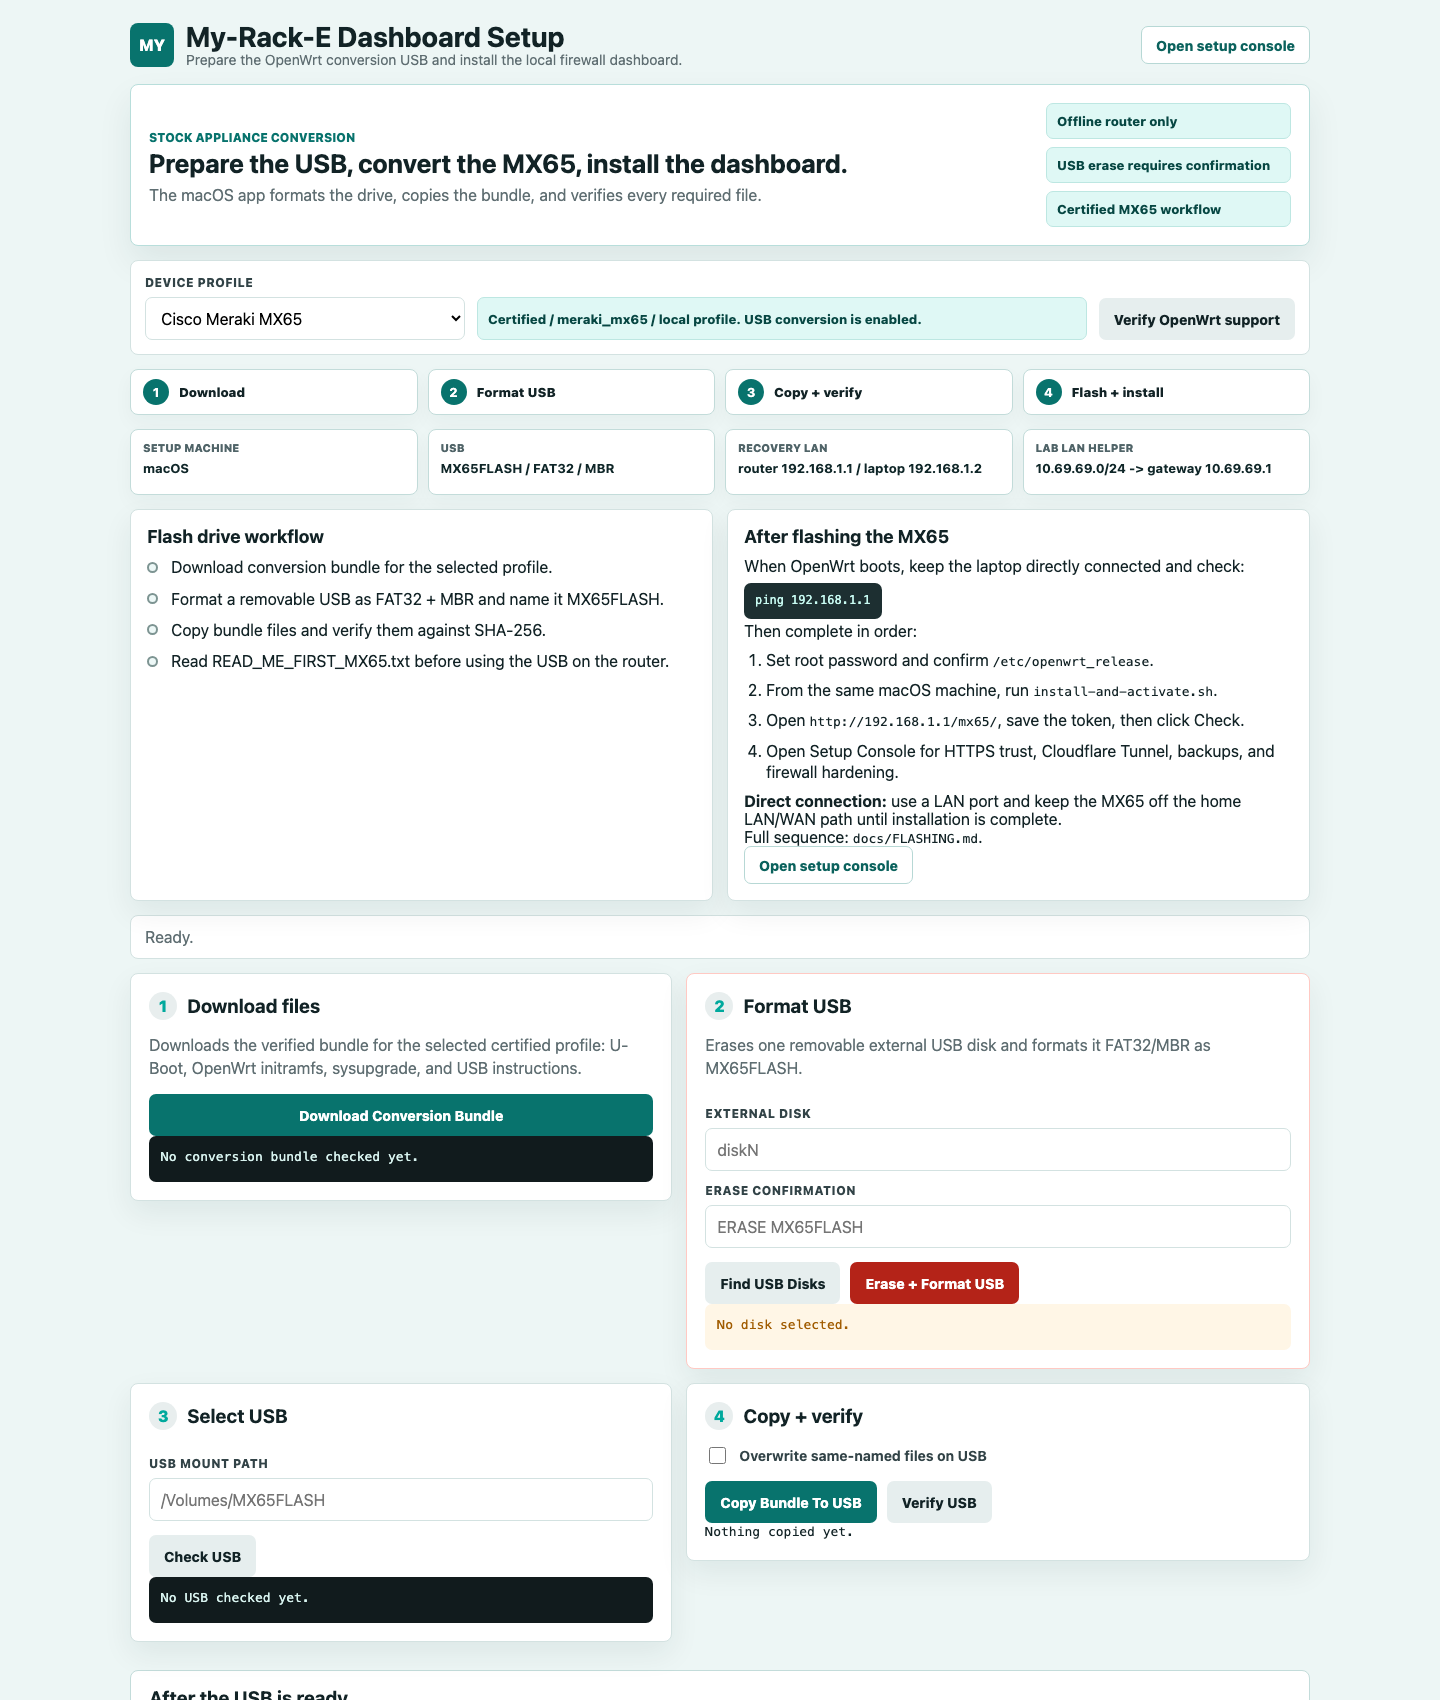
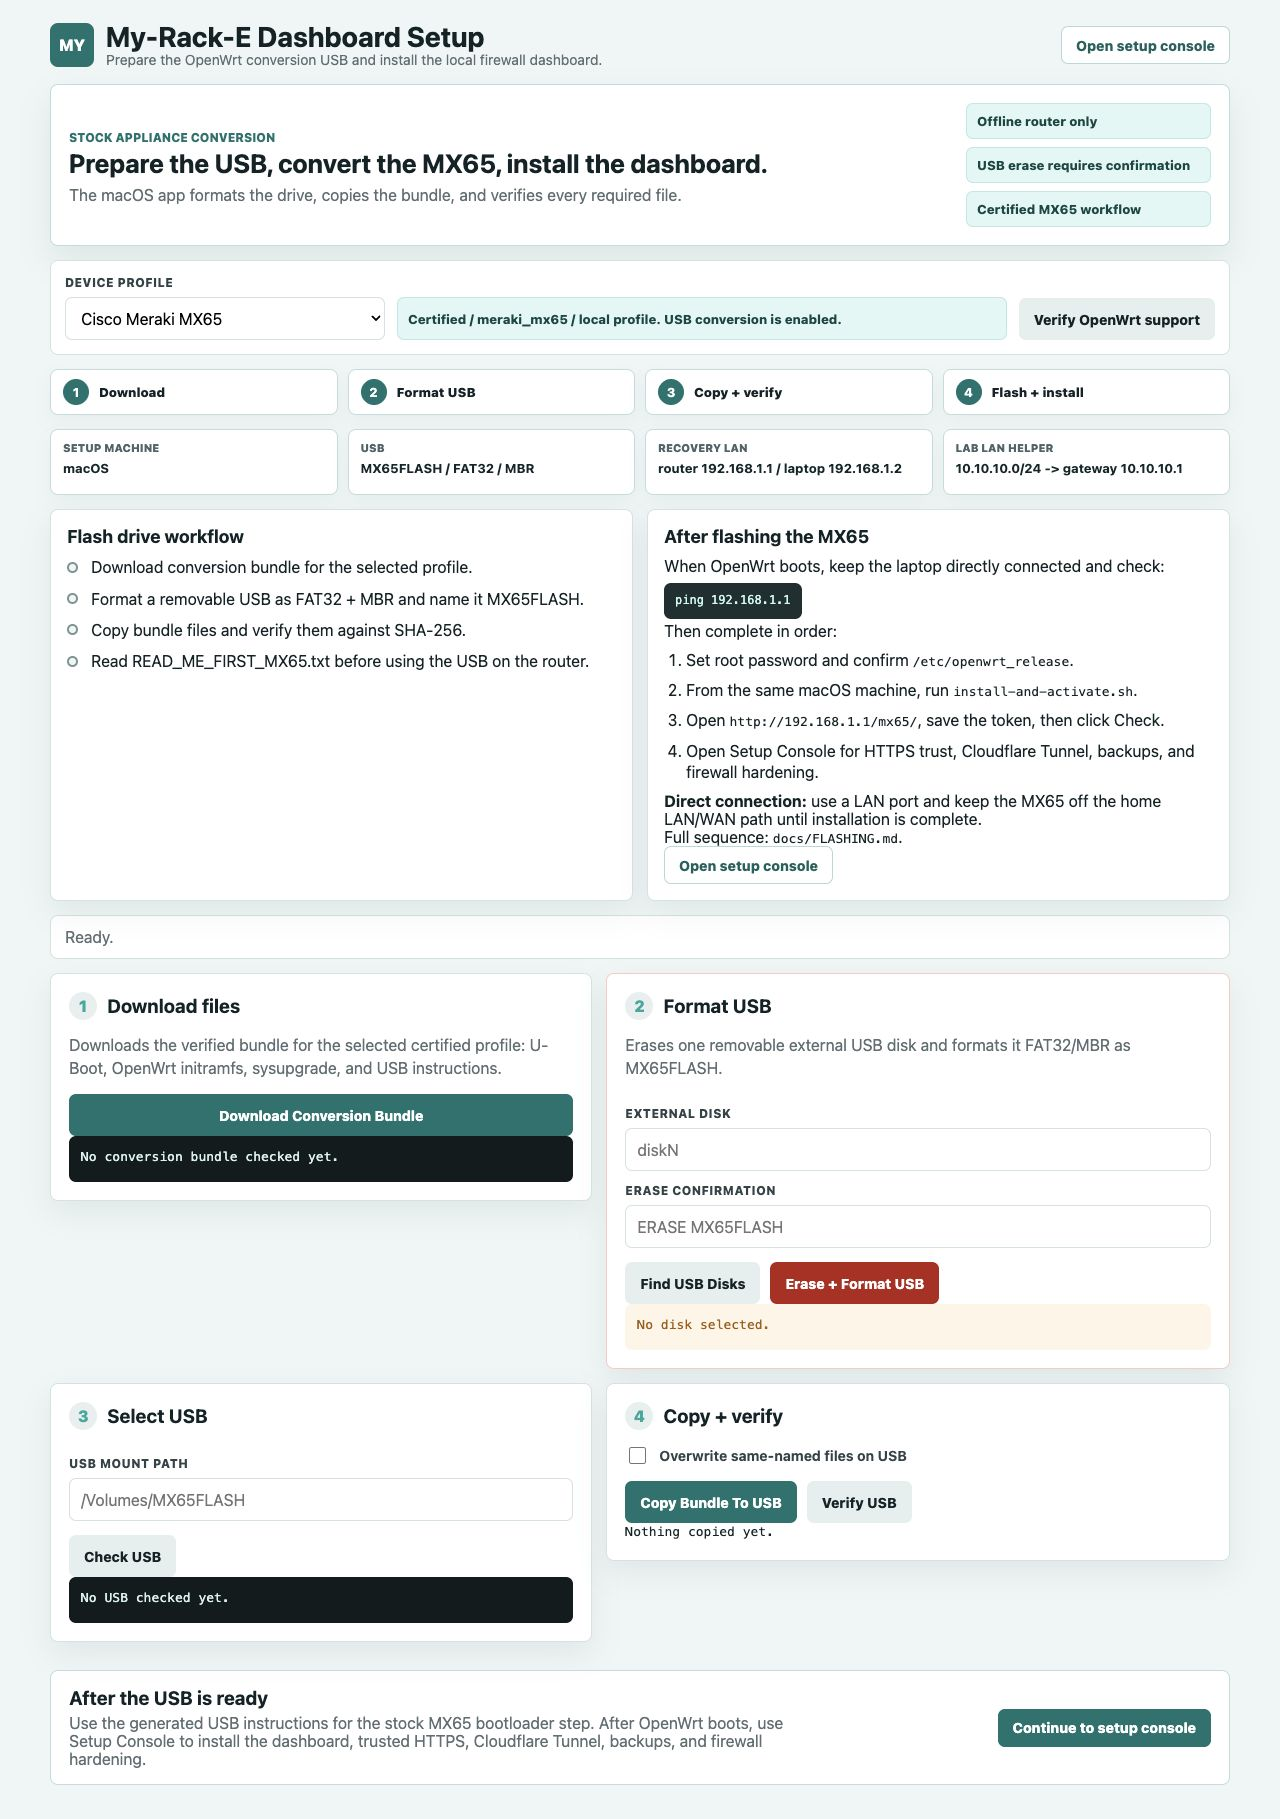
Prepare repository for public release
Refresh public-facing docs and setup screenshots, replace informal lab defaults with neutral examples, and add a release hygiene scan to the readiness checks so personal paths, stale placeholders, and unprofessional text are caught before publication.

Changed region(s): [[0.0312, 0.0, 0.9688, 1.0], [0.9062, 0.5924, 0.9375, 0.7171]]

diff --git a/router-manager/www/mx65/index.html b/router-manager/www/mx65/index.html
@@ -274,7 +274,7 @@
                   <input id="outboundRuleIdInput" type="hidden" />
                   <label><span>Policy</span><select id="outboundPolicyInput"><option value="deny">Deny</option><option value="allow">Allow</option></select></label>
                   <label><span>Protocol</span><select id="outboundProtocolInput"><option value="any">Any</option><option value="tcp">TCP</option><option value="udp">UDP</option><option value="icmp">ICMP</option></select></label>
-                  <label><span>Source</span><input id="outboundSourceInput" placeholder="Any or 10.69.69.0/24" /></label>
+                  <label><span>Source</span><input id="outboundSourceInput" placeholder="Any or 10.10.10.0/24" /></label>
                   <label><span>Destination</span><input id="outboundDestinationInput" placeholder="Any or 1.1.1.1/32" /></label>
                   <label><span>Destination port</span><input id="outboundDestPortInput" placeholder="Any, 443, or 8000-8090" /></label>
                   <label><span>Comment</span><input id="outboundCommentInput" placeholder="Block direct admin access" /></label>
@@ -315,7 +315,7 @@
               <label><span>Uplink</span><select id="forwardUplinkInput"><option value="both">Both Internet uplinks</option></select></label>
               <label><span>Protocol</span><select id="forwardProtocolInput"><option value="tcp">TCP</option><option value="udp">UDP</option><option value="tcpudp">TCP and UDP</option></select></label>
               <label><span>Public port</span><input id="forwardPublicPortInput" inputmode="numeric" placeholder="443" /></label>
-              <label><span>LAN host IP</span><input id="forwardLanIpInput" inputmode="decimal" placeholder="10.69.69.10" /></label>
+              <label><span>LAN host IP</span><input id="forwardLanIpInput" inputmode="decimal" placeholder="10.10.10.10" /></label>
               <label><span>Local port</span><input id="forwardLocalPortInput" inputmode="numeric" placeholder="443" /></label>
               <label><span>Allowed remote IPs</span><input id="forwardAllowedIpsInput" placeholder="Any or 203.0.113.10/32" /></label>
               <label><span>Status</span><select id="forwardEnabledInput"><option value="1">Enabled</option><option value="0">Disabled</option></select></label>
@@ -365,12 +365,12 @@
               <div class="surface-head">
                 <div>
                   <h2>Primary LAN</h2>
-                  <p class="note">Enter a subnet like 10.69.69.0/24 or a gateway like 10.69.69.1. My-Rack-E uses the first usable address as the gateway, reserves space for fixed infrastructure, and builds a client DHCP range from the subnet.</p>
+                  <p class="note">Enter a subnet like 10.10.10.0/24 or a gateway like 10.10.10.1. My-Rack-E uses the first usable address as the gateway, reserves space for fixed infrastructure, and builds a client DHCP range from the subnet.</p>
                 </div>
                 <button id="saveLanBtn" class="primary">Save LAN</button>
               </div>
               <div class="config-form">
-                <label><span>Subnet or gateway</span><input id="lanIpInput" inputmode="decimal" placeholder="10.69.69.0/24 or 10.69.69.1" /></label>
+                <label><span>Subnet or gateway</span><input id="lanIpInput" inputmode="decimal" placeholder="10.10.10.0/24 or 10.10.10.1" /></label>
                 <label><span>Subnet mask</span>
                   <select id="lanMaskInput">
                     <option value="255.255.255.0">255.255.255.0 /24</option>
@@ -380,7 +380,7 @@
                     <option value="255.255.255.192">255.255.255.192 /26</option>
                   </select>
                 </label>
-                <label><span>DHCP first client</span><input id="lanDhcpStartInput" inputmode="decimal" placeholder="10.69.69.50" /></label>
+                <label><span>DHCP first client</span><input id="lanDhcpStartInput" inputmode="decimal" placeholder="10.10.10.50" /></label>
                 <label><span>DHCP size</span><input id="lanDhcpLimitInput" inputmode="numeric" placeholder="150" /></label>
                 <label><span>Lease time</span><input id="lanLeaseInput" placeholder="12h" /></label>
               </div>
@@ -413,7 +413,7 @@
               <div class="config-form">
                 <label><span>VLAN ID</span><input id="vlanIdInput" inputmode="numeric" placeholder="69" /></label>
                 <label><span>Name</span><input id="vlanNameInput" placeholder="Lab" /></label>
-                <label><span>Subnet or gateway</span><input id="vlanIpInput" inputmode="decimal" placeholder="10.69.69.0/24 or 10.69.69.1" /></label>
+                <label><span>Subnet or gateway</span><input id="vlanIpInput" inputmode="decimal" placeholder="10.10.10.0/24 or 10.10.10.1" /></label>
                 <label><span>Subnet mask</span>
                   <select id="vlanMaskInput">
                     <option value="255.255.255.0">255.255.255.0 /24</option>
@@ -423,7 +423,7 @@
                     <option value="255.255.255.192">255.255.255.192 /26</option>
                   </select>
                 </label>
-                <label><span>DHCP first client</span><input id="vlanDhcpStartInput" inputmode="decimal" placeholder="10.69.69.50" /></label>
+                <label><span>DHCP first client</span><input id="vlanDhcpStartInput" inputmode="decimal" placeholder="10.10.10.50" /></label>
                 <label><span>DHCP size</span><input id="vlanDhcpLimitInput" inputmode="numeric" placeholder="150" /></label>
                 <label><span>Lease time</span><input id="vlanLeaseInput" placeholder="12h" /></label>
               </div>
@@ -456,7 +456,7 @@
                 <input id="routeIdInput" type="hidden" />
                 <label><span>Name</span><input id="routeNameInput" placeholder="Downstream lab" /></label>
                 <label><span>Subnet</span><input id="routeSubnetInput" placeholder="10.99.0.0/24" /></label>
-                <label><span>Next hop IP</span><input id="routeGatewayInput" inputmode="decimal" placeholder="10.69.69.2" /></label>
+                <label><span>Next hop IP</span><input id="routeGatewayInput" inputmode="decimal" placeholder="10.10.10.2" /></label>
                 <label><span>Interface</span><select id="routeInterfaceInput"><option value="lan">Primary LAN</option></select></label>
                 <label><span>Status</span><select id="routeEnabledInput"><option value="1">Enabled</option><option value="0">Disabled</option></select></label>
               </div>
@@ -564,7 +564,7 @@
             <div class="config-form wide">
               <label><span>Name</span><input id="reservationNameInput" placeholder="NAS" /></label>
               <label><span>MAC address</span><input id="reservationMacInput" placeholder="aa:bb:cc:dd:ee:ff" /></label>
-              <label><span>IP address</span><input id="reservationIpInput" inputmode="decimal" placeholder="10.69.69.10" /></label>
+              <label><span>IP address</span><input id="reservationIpInput" inputmode="decimal" placeholder="10.10.10.10" /></label>
               <label><span>Lease time</span><input id="reservationLeaseInput" placeholder="12h" /></label>
             </div>
             <table>

diff --git a/static/index.html b/static/index.html
@@ -54,7 +54,7 @@
         <div><span>Setup machine</span><strong>macOS</strong></div>
         <div><span>USB</span><strong>MX65FLASH / FAT32 / MBR</strong></div>
         <div><span>Recovery LAN</span><strong>router 192.168.1.1 / laptop 192.168.1.2</strong></div>
-        <div><span>Lab LAN helper</span><strong>10.69.69.0/24 -> gateway 10.69.69.1</strong></div>
+        <div><span>Lab LAN helper</span><strong>10.10.10.0/24 -> gateway 10.10.10.1</strong></div>
       </section>
 
       <section class="guide-panel" aria-label="Guided conversion checklist">

diff --git a/app.py b/app.py
@@ -1828,7 +1828,7 @@ def normalize_gateway_input(value: str, netmask: str) -> tuple[str, str]:
             prefix = ipaddress.IPv4Network(f"0.0.0.0/{netmask}").prefixlen
             interface = ipaddress.IPv4Interface(f"{value}/{prefix}")
     except ValueError as exc:
-        raise ValueError("LAN address must be a gateway IP or subnet CIDR, for example 10.69.69.0/24.") from exc
+        raise ValueError("LAN address must be a gateway IP or subnet CIDR, for example 10.10.10.0/24.") from exc
     network = interface.network
     if network.prefixlen < 1 or network.prefixlen > 30:
         raise ValueError("LAN subnet must have a usable gateway address.")

diff --git a/docs/SETUP.md b/docs/SETUP.md
@@ -22,8 +22,8 @@ This guide covers the certified Cisco Meraki MX65 path: create the USB on macOS,
 | Direct laptop IP | `192.168.1.2/24` |
 | Root SSH user after OpenWrt boots | `root` |
 | Dashboard URL on default LAN | `http://192.168.1.1/mx65/` |
-| Optional lab LAN | `10.69.69.0/24` |
-| Optional lab gateway | `10.69.69.1` |
+| Optional lab LAN | `10.10.10.0/24` |
+| Optional lab gateway | `10.10.10.1` |
 | DHCP helper policy | first usable IP is the gateway; low addresses are reserved for infrastructure; the client pool starts later in the subnet |
 
 ## 1. Start the setup app
@@ -114,10 +114,10 @@ http://192.168.1.1/mx65/
 
 Paste the manager token and click `Save`, then `Check`.
 
-If you changed the LAN to `10.69.69.0/24`, open:
+If you changed the LAN to `10.10.10.0/24`, open:
 
 ```text
-https://10.69.69.1/mx65/
+https://10.10.10.1/mx65/
 ```
 
 If you ever lose the cached browser token after restart:
@@ -133,7 +133,7 @@ Paste the reported token in the dashboard, then click `Save` and `Check`.
 After the dashboard works over HTTP:
 
 ```sh
-./scripts/trust-mx65-https.sh 10.69.69.1
+./scripts/trust-mx65-https.sh 10.10.10.1
 ```
 
 This creates a constrained local CA, trusts it in the macOS login keychain, installs a router certificate, and enables HTTPS redirect for the local manager.
@@ -143,7 +143,7 @@ This creates a constrained local CA, trusts it in the macOS login keychain, inst
 Use the dashboard `Firewall` page or:
 
 ```sh
-python3 scripts/mx65ctl.py --host 10.69.69.1 harden-security
+python3 scripts/mx65ctl.py --host 10.10.10.1 harden-security
 ```
 
 The hardening path backs up configuration first, validates firewall syntax, reloads services, and keeps rollback data.

diff --git a/docs/FIREWALL-HOWTO.md b/docs/FIREWALL-HOWTO.md
@@ -29,12 +29,12 @@ Examples:
 
 - `192.168.1.1`
 - `192.168.1.0/24`
-- `10.69.69.0/24`
+- `10.10.10.0/24`
 
 For a subnet input, My-Rack-E uses the first usable address as the gateway:
 
 ```text
-10.69.69.0/24 -> gateway 10.69.69.1
+10.10.10.0/24 -> gateway 10.10.10.1
 ```
 
 The default DHCP pattern reserves low addresses for infrastructure and uses a client pool later in the subnet. That keeps room for router, switches, servers, hypervisors, printers, and fixed lab hosts.
@@ -102,7 +102,7 @@ Recommended baseline:
 The hardening script:
 
 ```sh
-python3 scripts/mx65ctl.py --host 10.69.69.1 harden-security
+python3 scripts/mx65ctl.py --host 10.10.10.1 harden-security
 ```
 
 backs up current UCI config, applies baseline rules, validates, and leaves rollback data.
@@ -159,7 +159,7 @@ After updating:
 Create a backup before major changes:
 
 ```sh
-python3 scripts/mx65ctl.py --host 10.69.69.1 backup
+python3 scripts/mx65ctl.py --host 10.10.10.1 backup
 ```
 
 Rollback the manager:

diff --git a/docs/SYSTEM.md b/docs/SYSTEM.md
@@ -97,7 +97,7 @@ Dashboard and scripts use OpenWrt UCI commands, then validate before reload wher
 - Firewall changes: `uci set firewall...`, `fw4 check`, `uci commit firewall`
 - Service reloads: `/etc/init.d/network`, `/etc/init.d/dnsmasq`, `/etc/init.d/firewall`, `/etc/init.d/uhttpd`
 
-Addressing helpers use Cisco-style logic for common home-lab subnetting: when a subnet such as `10.69.69.0/24` is entered, the gateway is the first usable address, `10.69.69.1`, and DHCP is placed in a client range with low addresses reserved for infrastructure.
+Addressing helpers use Cisco-style logic for common home-lab subnetting: when a subnet such as `10.10.10.0/24` is entered, the gateway is the first usable address, `10.10.10.1`, and DHCP is placed in a client range with low addresses reserved for infrastructure.
 
 ## Data that must not be committed
 

diff --git a/mcp/README.md b/mcp/README.md
@@ -31,7 +31,7 @@ Use the absolute path for your checkout:
       "command": "python3",
       "args": ["/absolute/path/to/my-rack-e-dashboard/mcp/myracke_mcp.py"],
       "env": {
-        "MX65_HOST": "10.69.69.1",
+        "MX65_HOST": "10.10.10.1",
         "MX65_USER": "root"
       }
     }
@@ -47,7 +47,7 @@ command = "python3"
 args = ["/absolute/path/to/my-rack-e-dashboard/mcp/myracke_mcp.py"]
 
 [mcp_servers.myracke.env]
-MX65_HOST = "10.69.69.1"
+MX65_HOST = "10.10.10.1"
 MX65_USER = "root"
 ```
 

diff --git a/README.md b/README.md
@@ -72,7 +72,7 @@ Full setup instructions are in [docs/SETUP.md](docs/SETUP.md).
 | Stock recovery router IP | `192.168.1.1` |
 | Direct laptop IP | `192.168.1.2/24` |
 | Router-hosted dashboard | `http://192.168.1.1/mx65/` |
-| Optional lab LAN | `10.69.69.0/24` -> gateway `10.69.69.1` |
+| Optional lab LAN | `10.10.10.0/24` -> gateway `10.10.10.1` |
 | DHCP helper policy | gateway is first usable IP; low addresses stay reserved for infrastructure; client pool starts later in the subnet |
 
 ### Fast ops

diff --git a/docs/MCP.md b/docs/MCP.md
@@ -50,7 +50,7 @@ JSON-style MCP config:
       "command": "python3",
       "args": ["/absolute/path/to/my-rack-e-dashboard/mcp/myracke_mcp.py"],
       "env": {
-        "MX65_HOST": "10.69.69.1",
+        "MX65_HOST": "10.10.10.1",
         "MX65_USER": "root"
       }
     }
@@ -66,7 +66,7 @@ command = "python3"
 args = ["/absolute/path/to/my-rack-e-dashboard/mcp/myracke_mcp.py"]
 
 [mcp_servers.myracke.env]
-MX65_HOST = "10.69.69.1"
+MX65_HOST = "10.10.10.1"
 MX65_USER = "root"
 ```
 

diff --git a/scripts/README.md b/scripts/README.md
@@ -7,7 +7,7 @@ Default target:
 You can set a workspace default once instead of repeating `MX65_HOST`:
 
 ```sh
-export MX65_DEFAULT_HOST=10.69.69.1
+export MX65_DEFAULT_HOST=10.10.10.1
 ```
 
 ```sh
@@ -18,7 +18,7 @@ MX65_USER=root
 Override the target inline when needed:
 
 ```sh
-MX65_HOST=10.69.69.1 ./check-status.sh
+MX65_HOST=10.10.10.1 ./check-status.sh
 ```
 
 ## First Install / Activation
